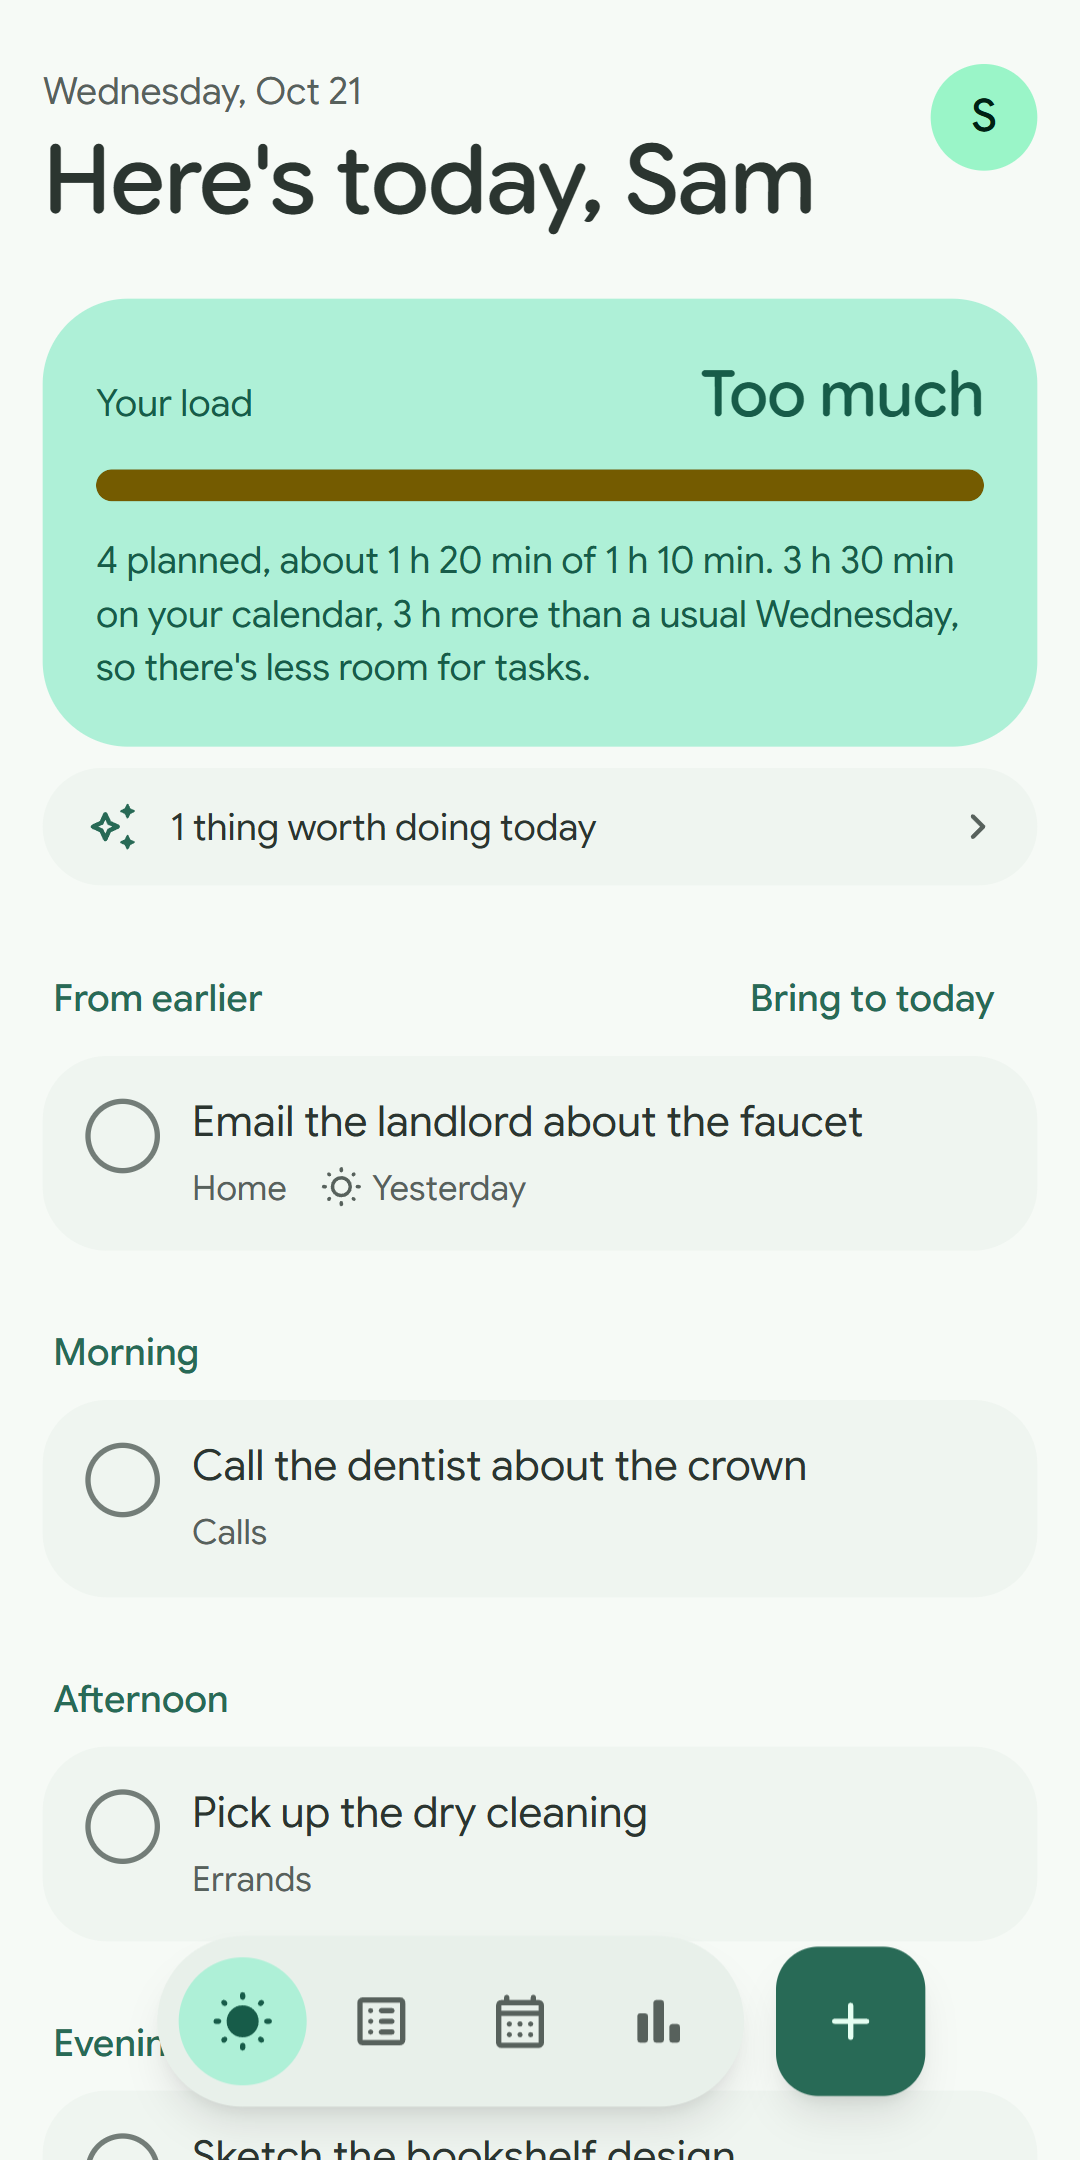
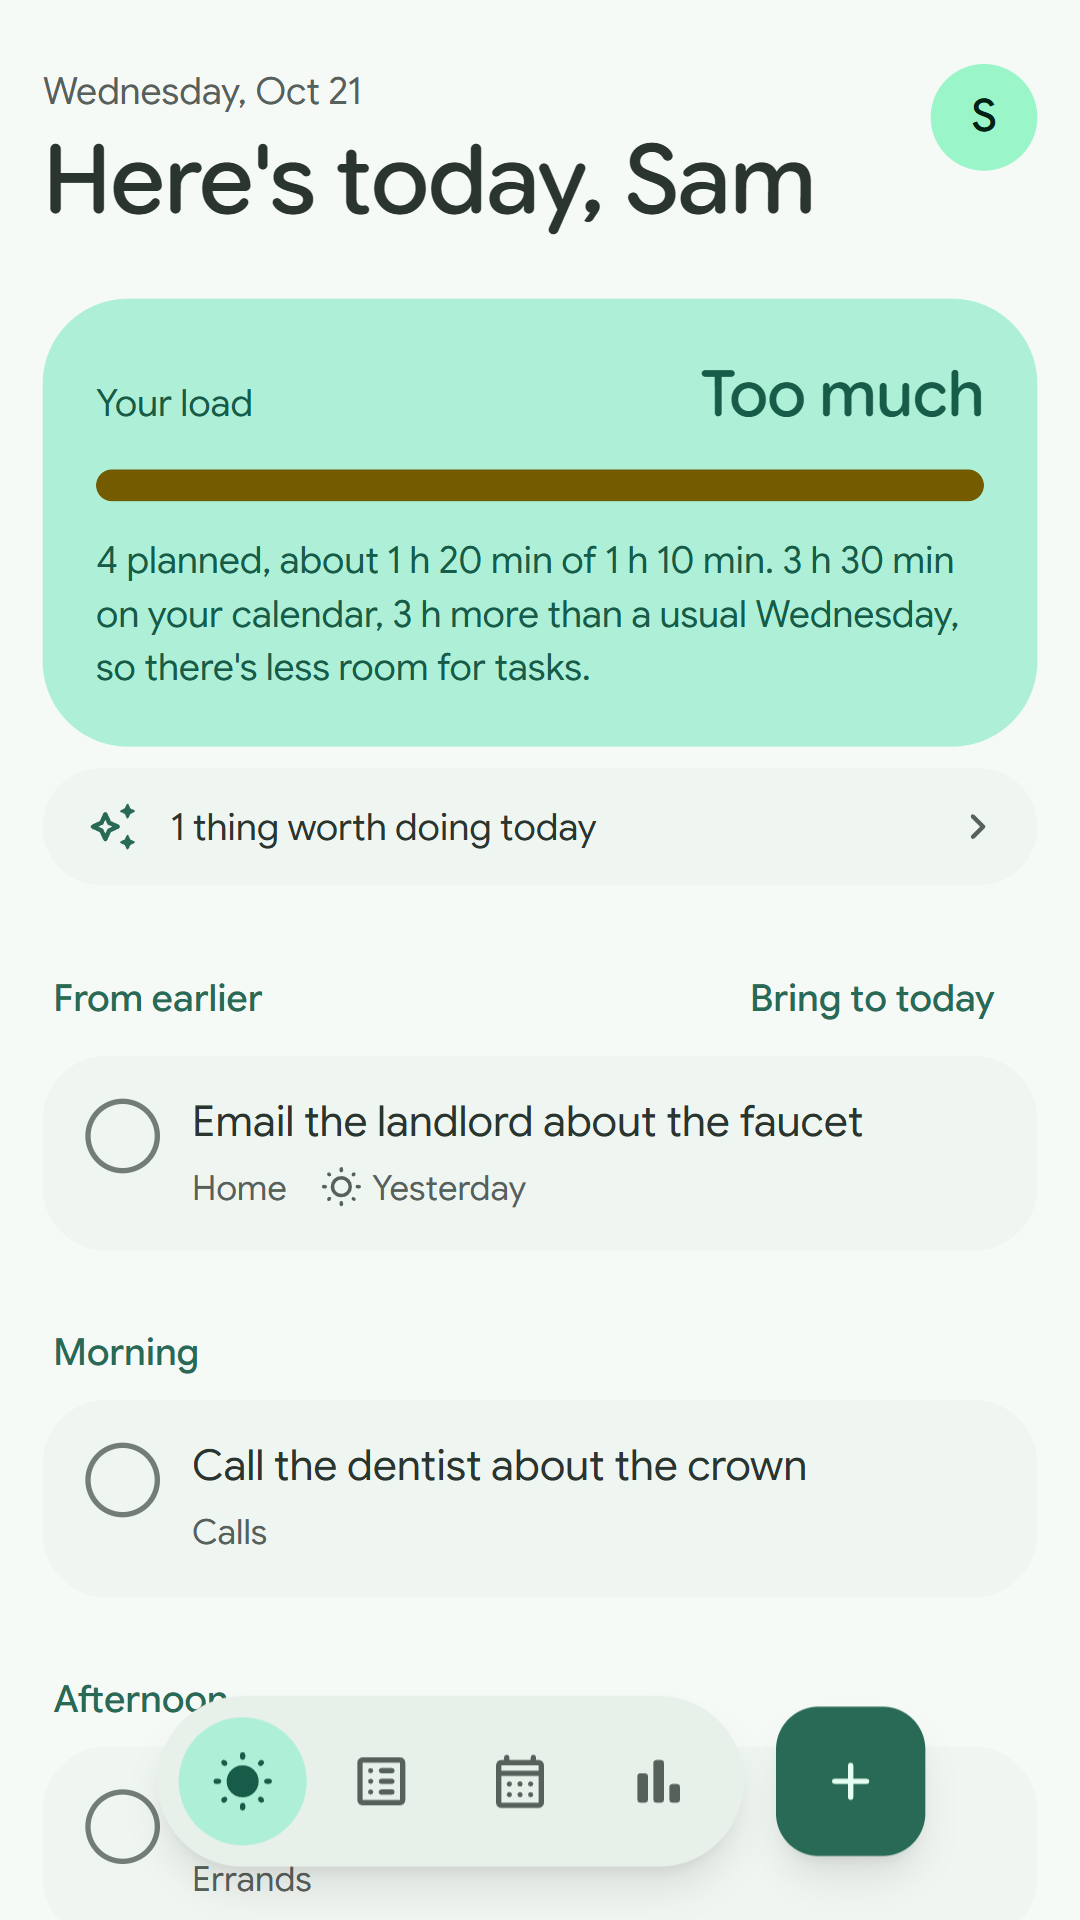
play screenshots at 9:16, the only tall shape the listing takes

diff --git a/scripts/readme-shots.ts b/scripts/readme-shots.ts
@@ -2,8 +2,8 @@
 // Needs an Amble server with AMBLE_DEV_LOGIN=1 serving the built app on a demo database (see
 // scripts/demo.ts), and Chrome installed.
 // Usage: node scripts/readme-shots.ts [email]   -> docs/screenshots/*.png
-// With AMBLE_SHOTS=play, the Play listing's phone screenshots instead: 1080x2160 (Play takes up to
-// 2:1), numbered in the listing's order, in fastlane/metadata/android/en-US/images/phoneScreenshots.
+// With AMBLE_SHOTS=play, the Play listing's phone screenshots instead: 1080x1920 (Play takes 9:16
+// only), numbered in the listing's order, in fastlane/metadata/android/en-US/images/phoneScreenshots.
 import fs from 'node:fs';
 import { chromium, type Page } from 'playwright-core';
 import { joinHousehold, local, syncNow } from './lib/household.ts';
@@ -89,7 +89,7 @@ const shots: Shot[] = [
 if (play) shots.sort((a, b) => PLAY_ORDER.indexOf(a.name) - PLAY_ORDER.indexOf(b.name));
 for (const [i, shot] of shots.entries()) {
   const context = await browser.newContext({
-    viewport: play ? { width: 405, height: 810 } : { width: 390, height: 844 },
+    viewport: play ? { width: 405, height: 720 } : { width: 390, height: 844 },
     deviceScaleFactor: play ? 1080 / 405 : 2,
     isMobile: true,
     hasTouch: true,

diff --git a/docs/android.md b/docs/android.md
@@ -66,7 +66,7 @@ Play installs the app signed with its own key (Play App Signing). What you uploa
 
 5. Upload it in the Play Console. After the first upload, App integrity shows Play's app signing key: add its SHA-1 as another Android client in Google Cloud ([above](#google-sign-in)), or Drive sign-in fails in the app people install from Play.
 
-The listing's words and pictures are kept with the code in `fastlane/metadata/android/en-US` (the layout fastlane and F-Droid read): the title, short and full descriptions, release notes in `changelogs/<versionCode>.txt`, the icon, the feature graphic and the phone screenshots. `node scripts/play-graphics.ts` draws the icon and feature graphic, and `AMBLE_SHOTS=play node scripts/readme-shots.ts` takes the screenshots from the demo household at 1080x2160. The privacy policy the listing links to is [privacy-policy.md](privacy-policy.md).
+The listing's words and pictures are kept with the code in `fastlane/metadata/android/en-US` (the layout fastlane and F-Droid read): the title, short and full descriptions, release notes in `changelogs/<versionCode>.txt`, the icon, the feature graphic and the phone screenshots. `node scripts/play-graphics.ts` draws the icon and feature graphic, and `AMBLE_SHOTS=play node scripts/readme-shots.ts` takes the screenshots from the demo household at 1080x1920, the 9:16 Play asks for. The privacy policy the listing links to is [privacy-policy.md](privacy-policy.md).
 
 A new personal Play developer account has to run a closed test with at least 12 testers opted in for 14 days in a row before it can publish to everyone.
 
